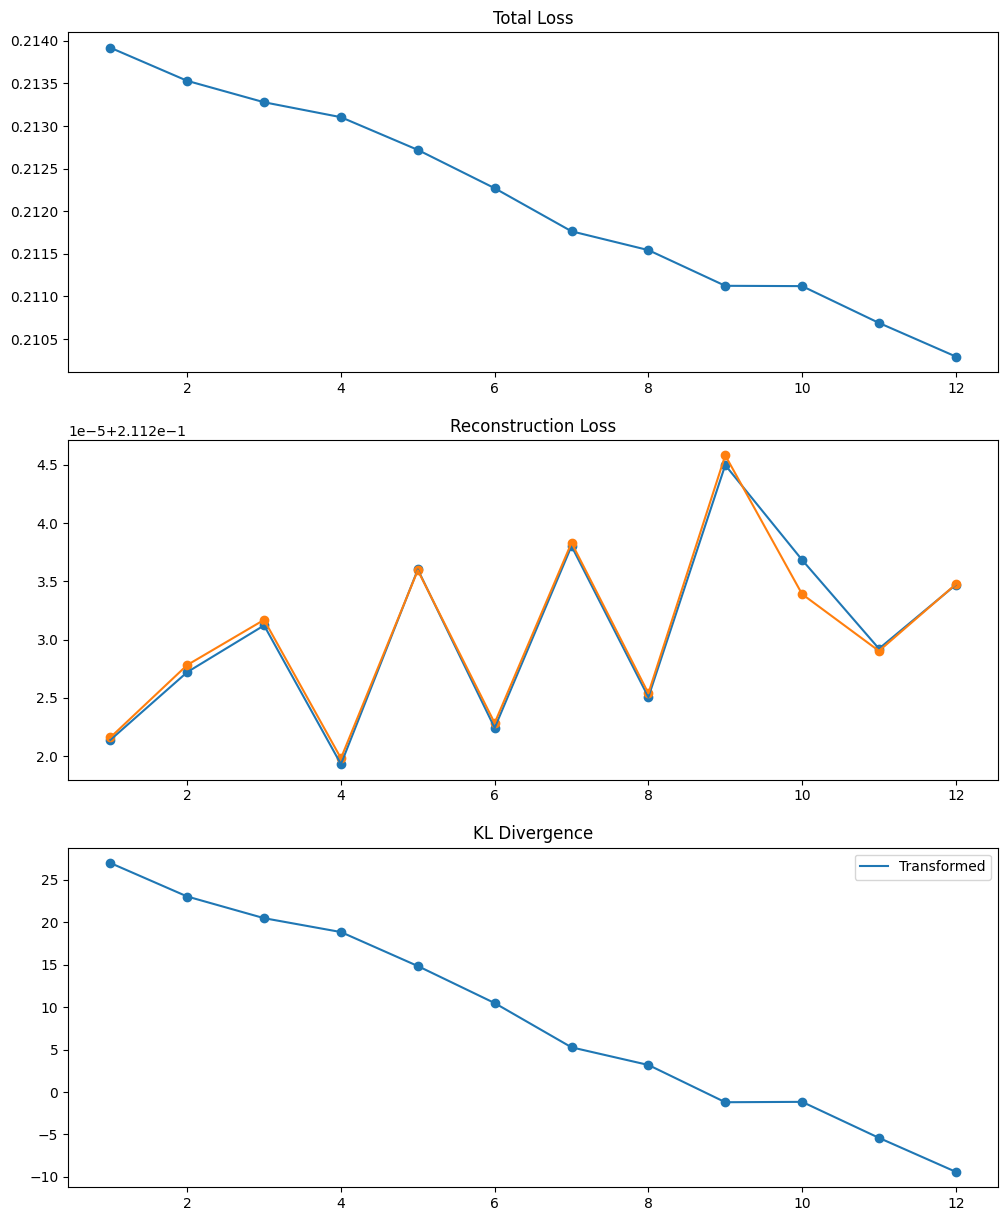
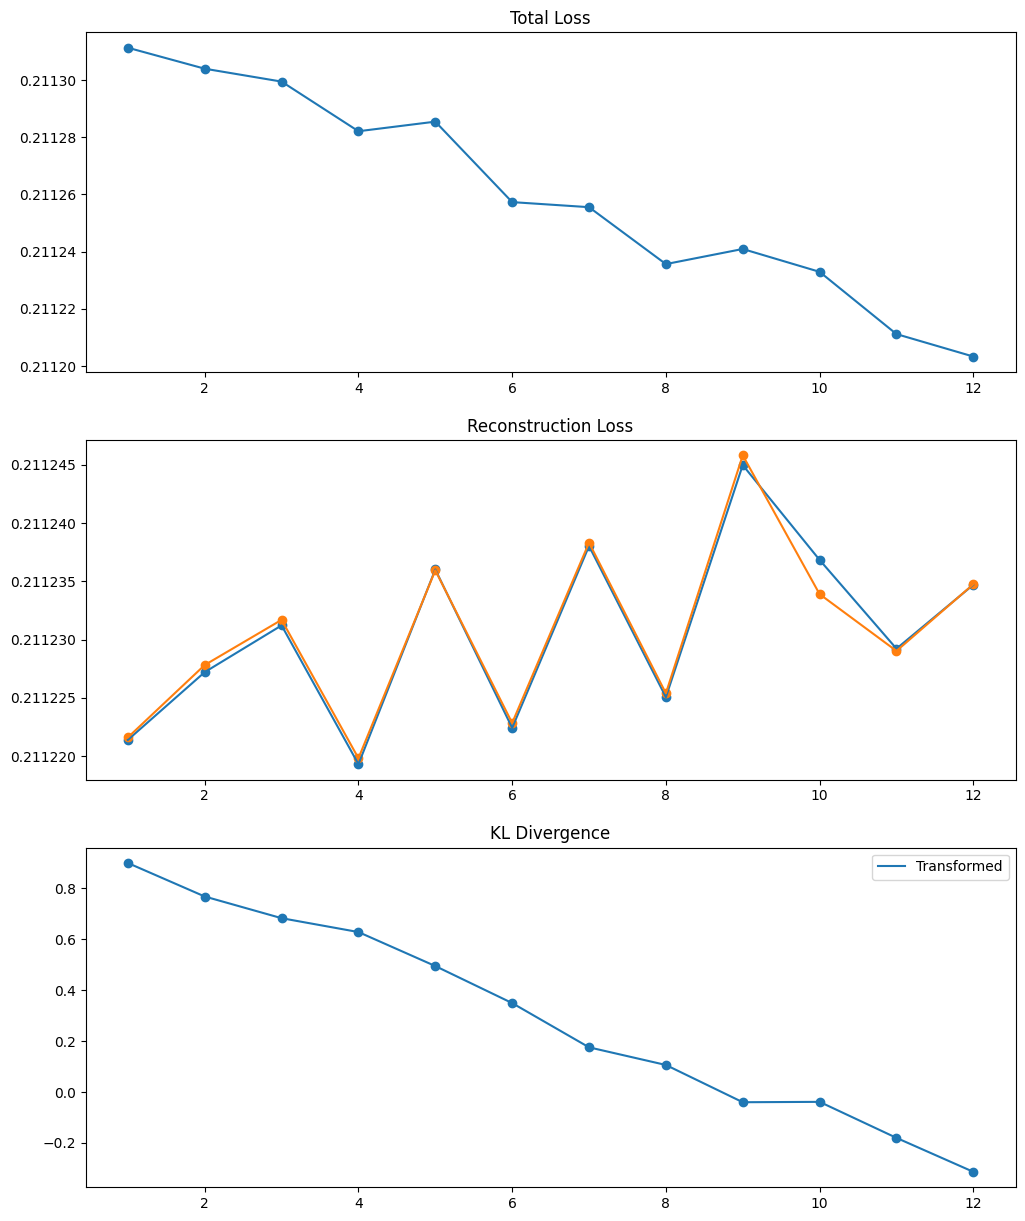
Code

diff --git a/planar_flow_vae_eagle.py b/planar_flow_vae_eagle.py
@@ -24,8 +24,8 @@ tfd = tfp.distributions
 
 
 
-run = 1
-encoding_dim = 40
+run = 2
+encoding_dim = 2
 n_flows = 1
 beta = 0.0001
 beta_name = "0001"
@@ -35,7 +35,7 @@ batch_size = 32
 
 # select which gpu to use
 os.environ["CUDA_DEVICE_ORDER"]="PCI_BUS_ID"
-os.environ["CUDA_VISIBLE_DEVICES"]="9"
+os.environ["CUDA_VISIBLE_DEVICES"]="1"
 
 
 
@@ -43,8 +43,8 @@ os.environ["CUDA_VISIBLE_DEVICES"]="9"
 
 
 # for encoding_dim in [encoding_dim]:
-for n_flows in [1, 2, 3]:
-
+# for n_flows in [1, 2, 3]:
+for encoding_dim, n_flows in [[encoding_dim, 1], [encoding_dim, 2], [encoding_dim, 3], [encoding_dim+2, 1], [encoding_dim+2, 2], [encoding_dim+2, 3]]
 
     print()
     print("Encoding Dim", encoding_dim)
@@ -509,7 +509,7 @@ for n_flows in [1, 2, 3]:
             # perform reparameterization trick
             z = z_mean + tf.exp(0.5 * z_log_var) * epsilon
 
-            z = tf.clip_by_value(z, -4+1e-4, 4-1e-4)
+            # z = tf.clip_by_value(z, -4+1e-4, 4-1e-4)
 
             # apply flow transformations
             sum_log_det_jacobian = 0.0

diff --git a/optimal_flows.py b/optimal_flows.py
@@ -28,6 +28,9 @@ total_loss_transformed = np.load("Variational Eagle/Loss/Normalising Flow/total_
 reconstruction_loss_transformed = np.load("Variational Eagle/Loss/Normalising Flow/reconstruction_loss_beta_30_transformed.npy")
 kl_loss_transformed = np.load("Variational Eagle/Loss/Normalising Flow/kl_loss_beta_30_transformed.npy")
 
+kl_loss_transformed = kl_loss_transformed/30
+total_loss_transformed = reconstruction_loss_transformed + (0.0001 * kl_loss_transformed)
+
 fig, axs = plt.subplots(3, 1, figsize=(12, 15))
 
 # fig, axs = plt.subplots(1, 1, figsize=(12, 5))
@@ -61,10 +64,11 @@ axs[1].set_title("Reconstruction Loss")
 
 
 plt.legend()
+axs[1].ticklabel_format(style='plain', useOffset=False, axis='both')
 
 
 # plt.legend()
-plt.savefig("Variational Eagle/Plots/optimal_beta_30_feat", bbox_inches='tight')
+plt.savefig("Variational Eagle/Plots/optimal_flows_30_feat", bbox_inches='tight')
 plt.show()
 
 
